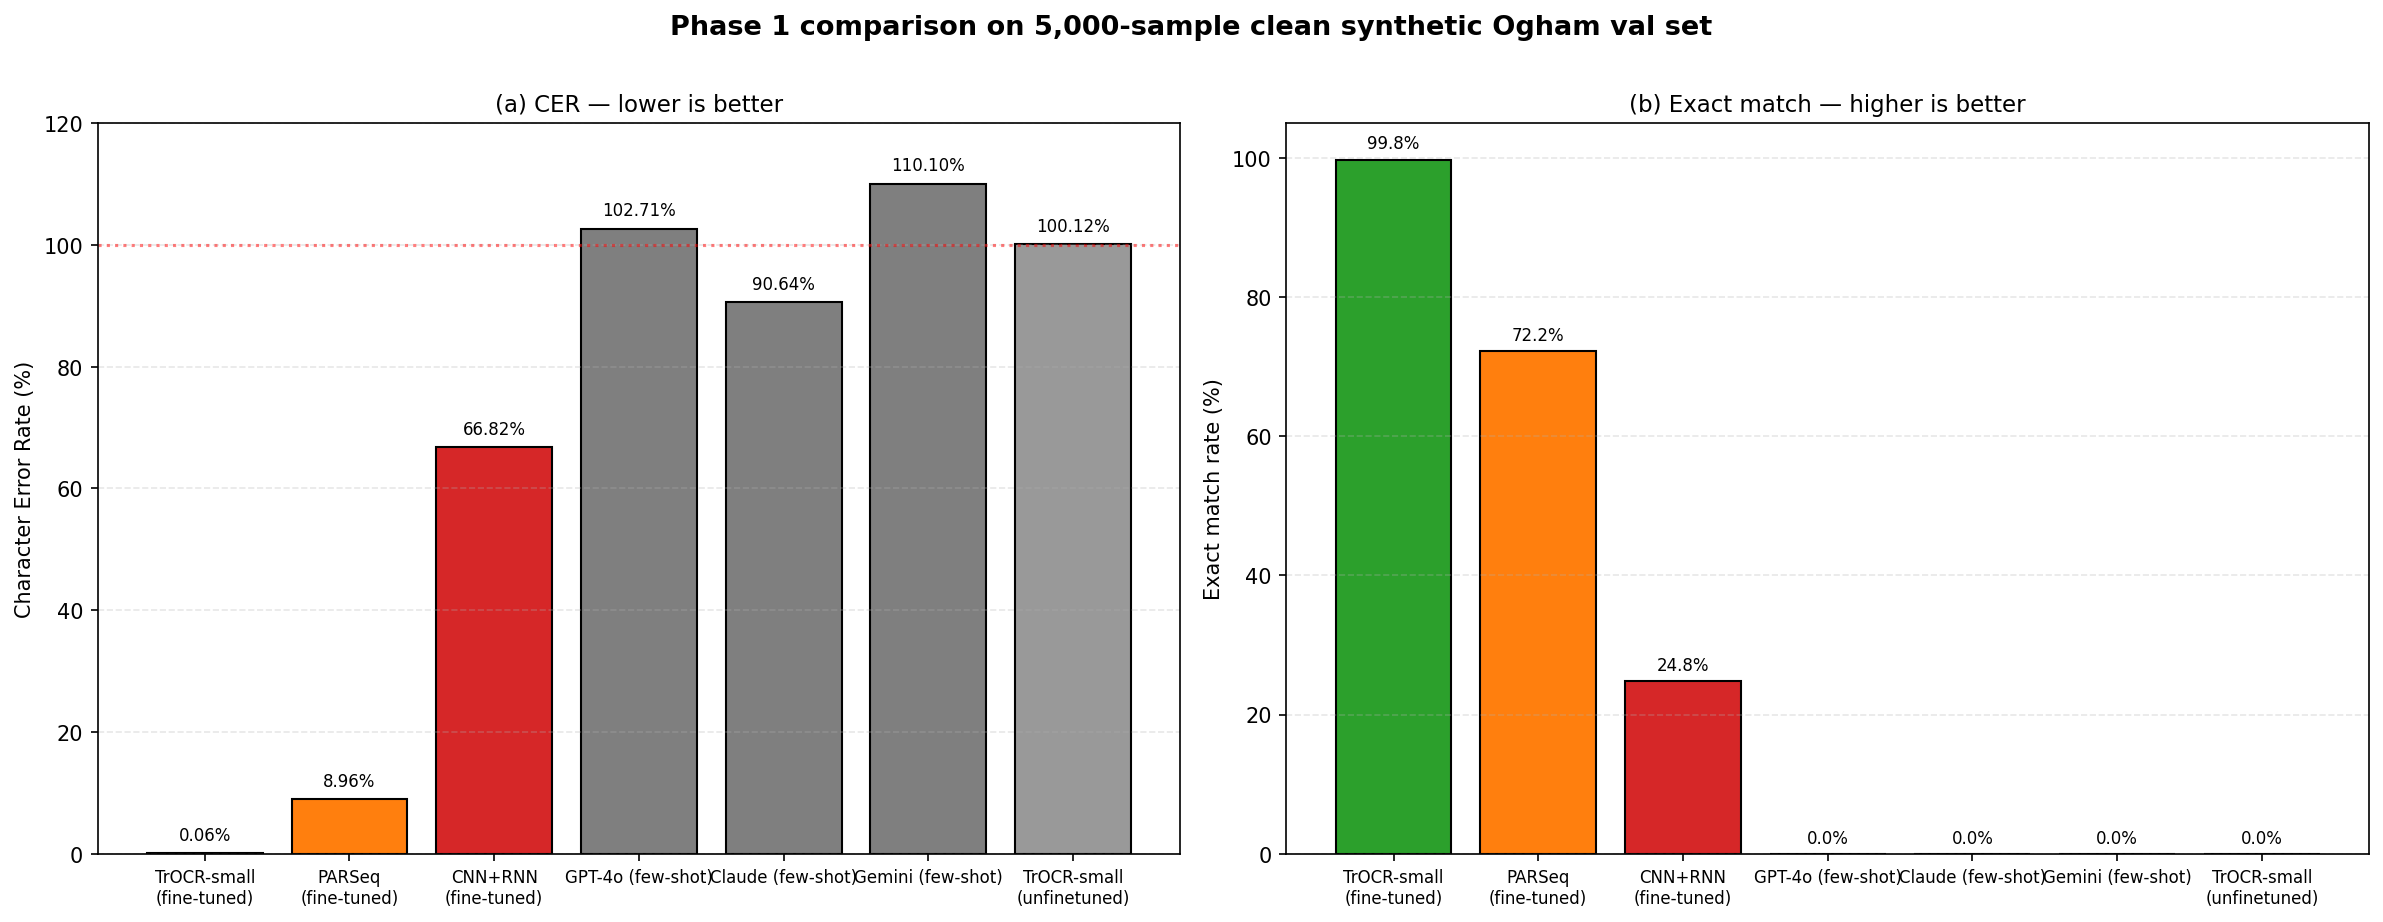
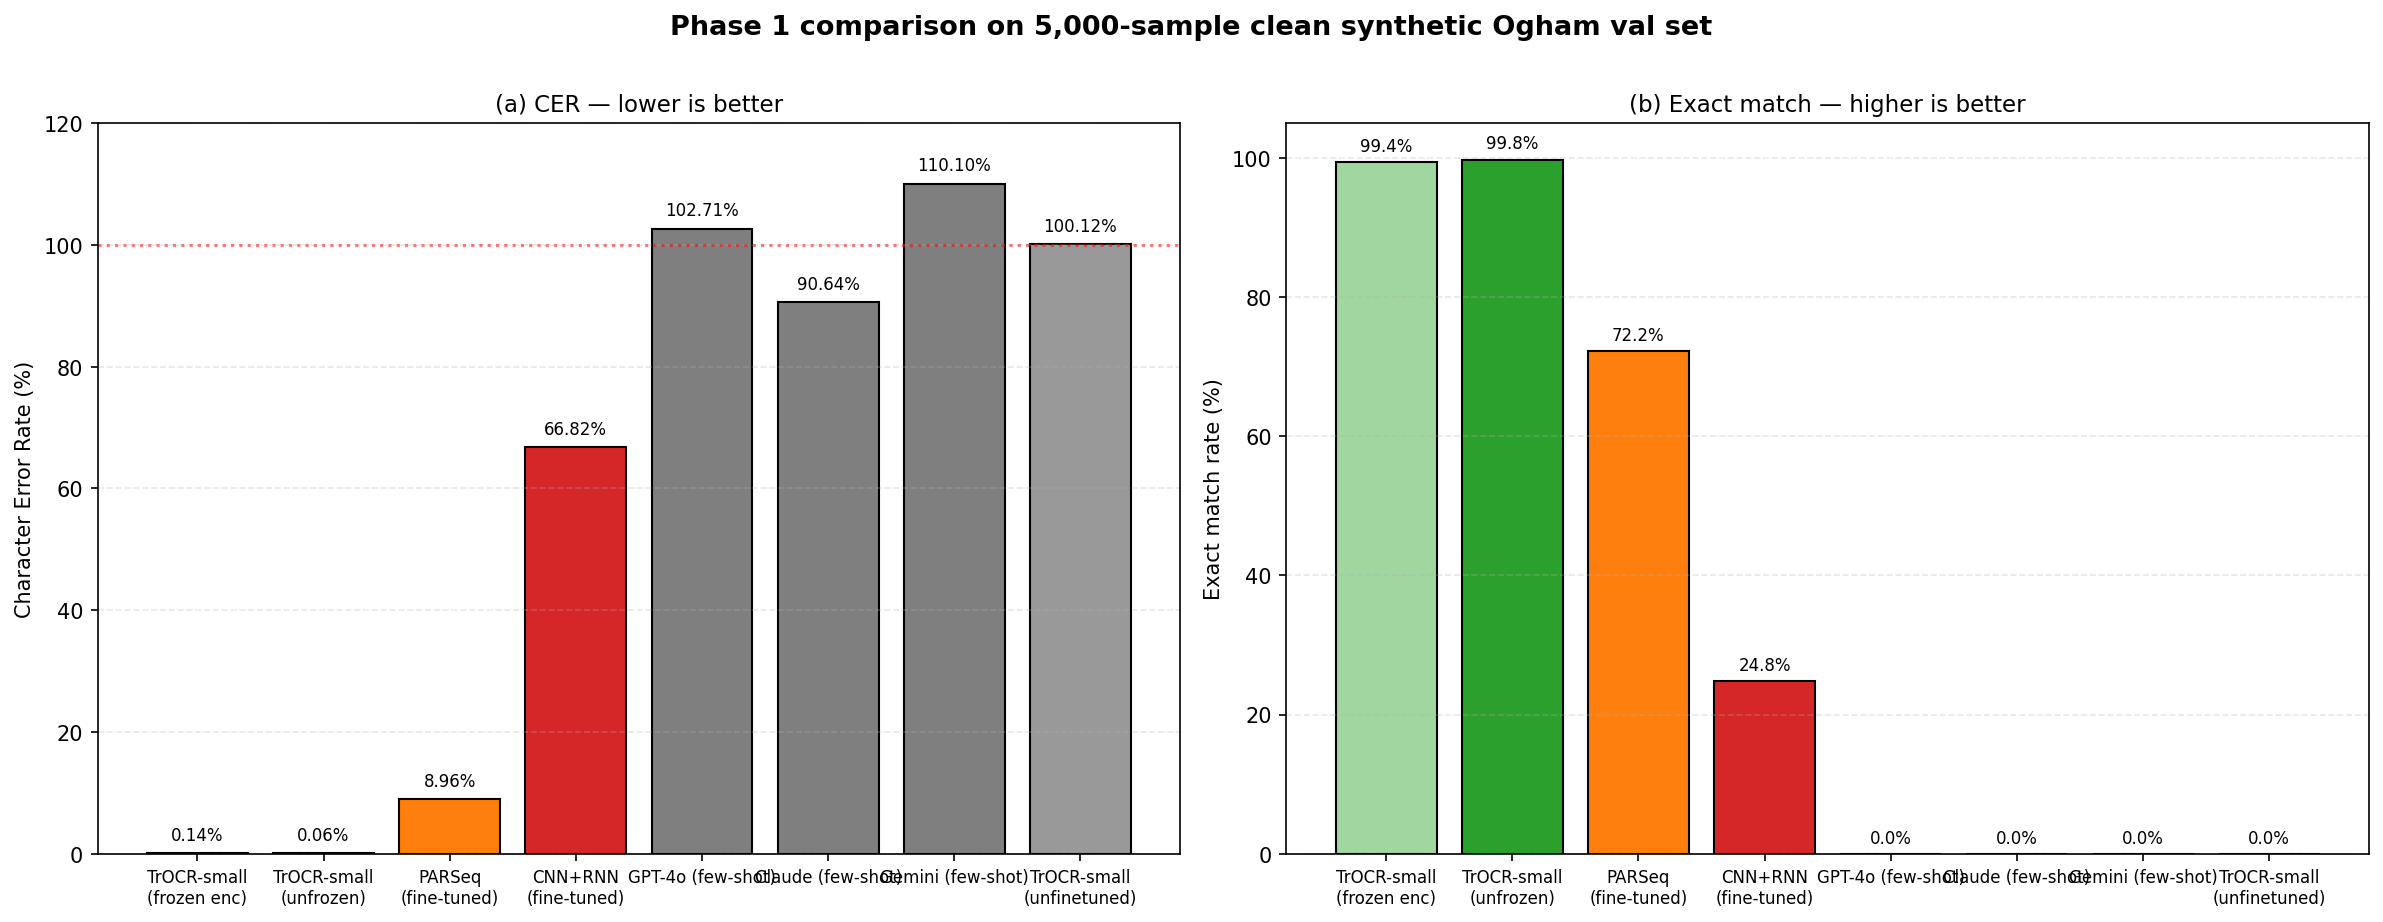
Add TrOCR-small frozen-encoder variant to Phase 1 comparison charts
Phase 1 now shows both frozen and unfrozen TrOCR-small variants
(0.14% / 99.4% frozen vs 0.06% / 99.8% unfrozen) — making the
freeze ablation visible as a first-bar pair in all three Phase 1
charts (full, exact match, dual metric). Frozen bars use a lighter
shade of green to pair visually with the unfrozen main green.

Supports the methodological claim that unfreezing gave modest
improvement (0.08pp CER reduction, 0.4pp exact-match gain), which
is why subsequent Phase 2 experiments default to unfrozen.

diff --git a/scripts/plot_full_comparison.py b/scripts/plot_full_comparison.py
@@ -90,9 +90,10 @@ def _status_for(model_name, split_key):
 def chart_phase1_comparison():
     """Bar chart: all models' CER on clean synthetic."""
     models = [
-        ("TrOCR-small\n(fine-tuned)", phase2_data["models"]["trocr_small"]["phase1_synth_cer_pct"], "#2ca02c", None),
-        ("PARSeq\n(fine-tuned)",      phase2_data["models"]["parseq"]["phase1_synth_cer_pct"],       "#ff7f0e", None),
-        ("CNN+RNN\n(fine-tuned)",     phase2_data["models"]["cnn_rnn"]["phase1_synth_cer_pct"],      "#d62728", None),
+        ("TrOCR-small\n(frozen enc)",   0.14,                                                            "#a0d6a0", None),
+        ("TrOCR-small\n(unfrozen)",     phase2_data["models"]["trocr_small"]["phase1_synth_cer_pct"],   "#2ca02c", None),
+        ("PARSeq\n(fine-tuned)",        phase2_data["models"]["parseq"]["phase1_synth_cer_pct"],        "#ff7f0e", None),
+        ("CNN+RNN\n(fine-tuned)",       phase2_data["models"]["cnn_rnn"]["phase1_synth_cer_pct"],       "#d62728", None),
     ]
     for name, vals in EXTENDED_LM_RESULTS.items():
         if vals["synth_cer"] is not None:
@@ -199,7 +200,8 @@ def chart_phase2_comparison():
 def chart_phase1_exact_match():
     """Bar chart: all models' exact-match on clean synthetic."""
     models = [
-        ("TrOCR-small\n(fine-tuned)", phase2_data["models"]["trocr_small"].get("phase1_synth_exact_pct", 99.8), "#2ca02c"),
+        ("TrOCR-small\n(frozen enc)", 99.4,                                                                      "#a0d6a0"),
+        ("TrOCR-small\n(unfrozen)",   phase2_data["models"]["trocr_small"].get("phase1_synth_exact_pct", 99.8), "#2ca02c"),
         ("PARSeq\n(fine-tuned)",      phase2_data["models"]["parseq"].get("phase1_synth_exact_pct", 72.2),       "#ff7f0e"),
         ("CNN+RNN\n(fine-tuned)",     phase2_data["models"]["cnn_rnn"].get("phase1_synth_exact_pct", 24.8),      "#d62728"),
     ]
@@ -277,9 +279,10 @@ def chart_phase1_dual():
 
     # Left: CER
     p1_models_cer = [
-        ("TrOCR-small\n(fine-tuned)", phase2_data["models"]["trocr_small"]["phase1_synth_cer_pct"], "#2ca02c"),
-        ("PARSeq\n(fine-tuned)",      phase2_data["models"]["parseq"]["phase1_synth_cer_pct"],       "#ff7f0e"),
-        ("CNN+RNN\n(fine-tuned)",     phase2_data["models"]["cnn_rnn"]["phase1_synth_cer_pct"],      "#d62728"),
+        ("TrOCR-small\n(frozen enc)", 0.14,                                                              "#a0d6a0"),
+        ("TrOCR-small\n(unfrozen)",   phase2_data["models"]["trocr_small"]["phase1_synth_cer_pct"],     "#2ca02c"),
+        ("PARSeq\n(fine-tuned)",      phase2_data["models"]["parseq"]["phase1_synth_cer_pct"],           "#ff7f0e"),
+        ("CNN+RNN\n(fine-tuned)",     phase2_data["models"]["cnn_rnn"]["phase1_synth_cer_pct"],          "#d62728"),
     ]
     for name, vals in EXTENDED_LM_RESULTS.items():
         if vals["synth_cer"] is not None:
@@ -306,7 +309,8 @@ def chart_phase1_dual():
 
     # Right: exact match
     p1_models_ex = [
-        ("TrOCR-small\n(fine-tuned)", phase2_data["models"]["trocr_small"].get("phase1_synth_exact_pct", 99.8), "#2ca02c"),
+        ("TrOCR-small\n(frozen enc)", 99.4,                                                                      "#a0d6a0"),
+        ("TrOCR-small\n(unfrozen)",   phase2_data["models"]["trocr_small"].get("phase1_synth_exact_pct", 99.8), "#2ca02c"),
         ("PARSeq\n(fine-tuned)",      phase2_data["models"]["parseq"].get("phase1_synth_exact_pct", 72.2),       "#ff7f0e"),
         ("CNN+RNN\n(fine-tuned)",     phase2_data["models"]["cnn_rnn"].get("phase1_synth_exact_pct", 24.8),      "#d62728"),
     ]
